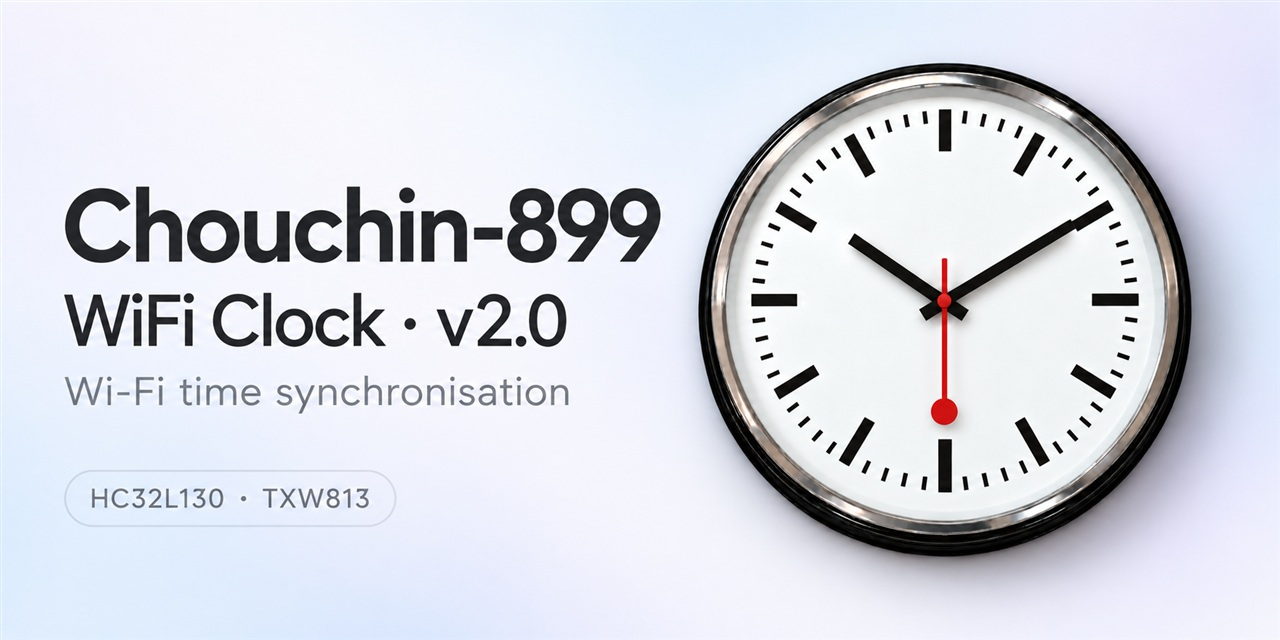
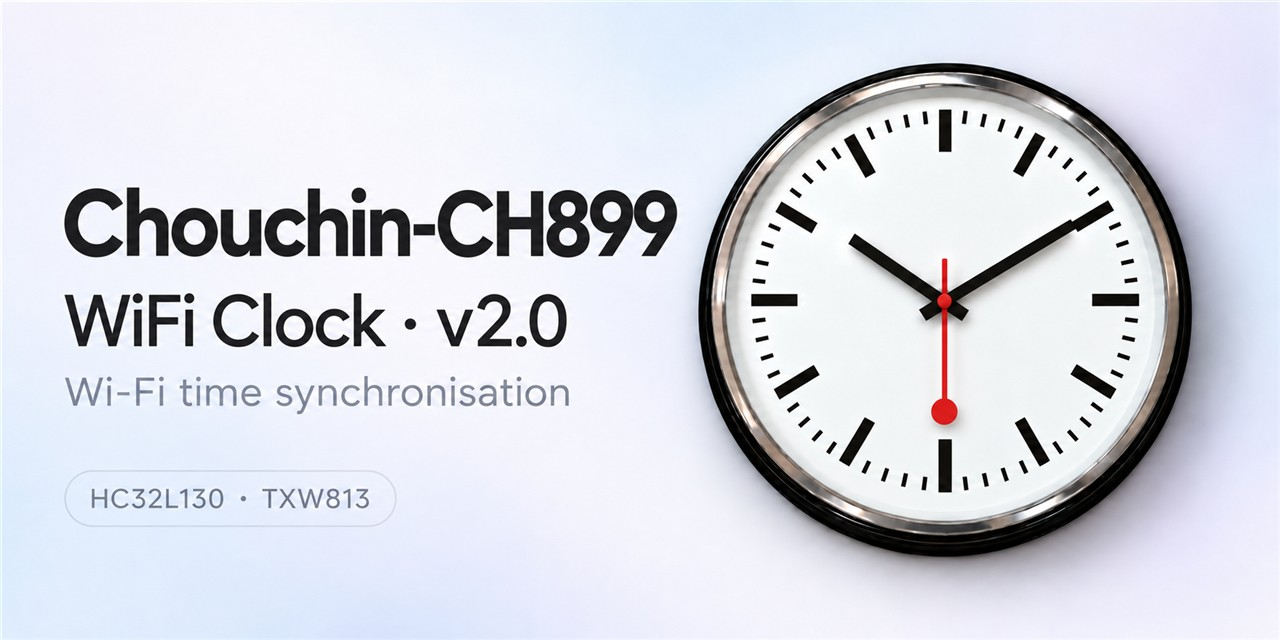
Correct displayed movement name to Chouchin-CH899

diff --git a/README.md b/README.md
@@ -1,6 +1,6 @@
-# Chouchin-899 · WiFi Clock v2.0
+# Chouchin-CH899 · WiFi Clock v2.0
 
-![Chouchin-899 WiFi Clock v2.0 — HC32L130 and TXW813](docs/assets/social-preview.jpg)
+![Chouchin-CH899 WiFi Clock v2.0 — HC32L130 and TXW813](docs/assets/social-preview.jpg)
 
 <sub>Illustrative artwork with a digitally restyled dial and hands.</sub>
 
@@ -8,9 +8,9 @@ Wi-Fi time synchronisation, configurable hand movement and a simple local settin
 
 **Check your board first:** this project is for **HC32L130J8TA + TXW813-320** only. For **MM32 + ESP8285**, use [the older-board project](https://github.com/maddenste/Chouchin-CH899-Firmware). The firmware is not interchangeable.
 
-<img src="docs/photos/chouchin-899-newer-board-overview.jpg" alt="Newer Chouchin-899 board" width="350">
+<img src="docs/photos/chouchin-899-newer-board-overview.jpg" alt="Newer Chouchin-CH899 board" width="350">
 
-[Example CH899 Wi-Fi clock movement](https://www.hr-clockparts.com/clock-movement/wifi-clock-movement.html) — for identification only, not a confirmed compatible purchase. The listing does not identify the board revision; check for **HC32L130J8TA + TXW813-320** before buying for this project.
+[Example Chouchin-CH899 Wi-Fi clock movement](https://www.hr-clockparts.com/clock-movement/wifi-clock-movement.html) — for identification only, not a confirmed compatible purchase. The listing does not identify the board revision; check for **HC32L130J8TA + TXW813-320** before buying for this project.
 
 ## Ready to install?
 

diff --git a/docs/HARDWARE.md b/docs/HARDWARE.md
@@ -1,6 +1,6 @@
 # Board identification and wiring
 
-Target: newer Chouchin-899 / CH-899, **HDSC HC32L130J8TA + Taixin TXW813-320**.
+Target: newer Chouchin-CH899, **HDSC HC32L130J8TA + Taixin TXW813-320**.
 Older ESP8285/MM32 electronics use the [original project](https://github.com/maddenste/Chouchin-CH899-Firmware).
 A model label is not enough. Photograph both sides and inspect the chip markings.
 
@@ -14,9 +14,9 @@ Photos supplied by Steve Madden. Published copies retain orientation and full
 main-image resolution, with location/camera metadata removed. These are board
 identification photos, not photographs of the connected programmers.
 
-### Newer Chouchin-899 — whole-board overview
+### Newer Chouchin-CH899 — whole-board overview
 
-<img src="photos/chouchin-899-newer-board-overview.jpg" alt="Whole newer Chouchin-899 PCB: HC32 movement controller above, TXW813 Wi-Fi circuitry and antenna below" width="500">
+<img src="photos/chouchin-899-newer-board-overview.jpg" alt="Whole newer Chouchin-CH899 PCB: HC32 movement controller above, TXW813 Wi-Fi circuitry and antenna below" width="500">
 
 **HC32 movement controller:** upper-left chip. **TXW813 Wi-Fi controller:**
 lower section beside the 40 MHz crystal and PCB antenna. Both chips must match

diff --git a/docs/TOOLS.md b/docs/TOOLS.md
@@ -6,7 +6,7 @@ We used **Windows**. Other systems may work, but are untested; the supplied scri
 
 | Item | Purpose |
 | --- | --- |
-| HC32L130J8TA + TXW813-320 Chouchin-899 | Supported board |
+| HC32L130J8TA + TXW813-320 Chouchin-CH899 | Supported board |
 | [CMSIS-DAP / DAPLink probe](https://www.ebay.co.uk/itm/254327616482) **with U_TX and U_RX UART pins** | HC32 upload |
 | [CKLink Lite V2](https://www.aliexpress.com/item/1005009972319809.html) | TXW813 upload |
 | **TENSTAR ROBOT TSP-03 fixed 3.3 V supply** | Power at battery terminals; label states 3.3 V DC / 3 W |

diff --git a/docs/HISTORY.md b/docs/HISTORY.md
@@ -2,7 +2,7 @@
 
 ## Why a second project?
 
-The older Chouchin-899 project targets MM32 + ESP hardware. This newer unit
+The older Chouchin-CH899 project targets MM32 + ESP hardware. This newer unit
 uses HC32L130J8TA + TXW813-320, so an ESP binary could not be reused.
 The useful part to port was the behaviour: setup web page, NTP/timezone backend,
 and the UART contract with the movement controller.
